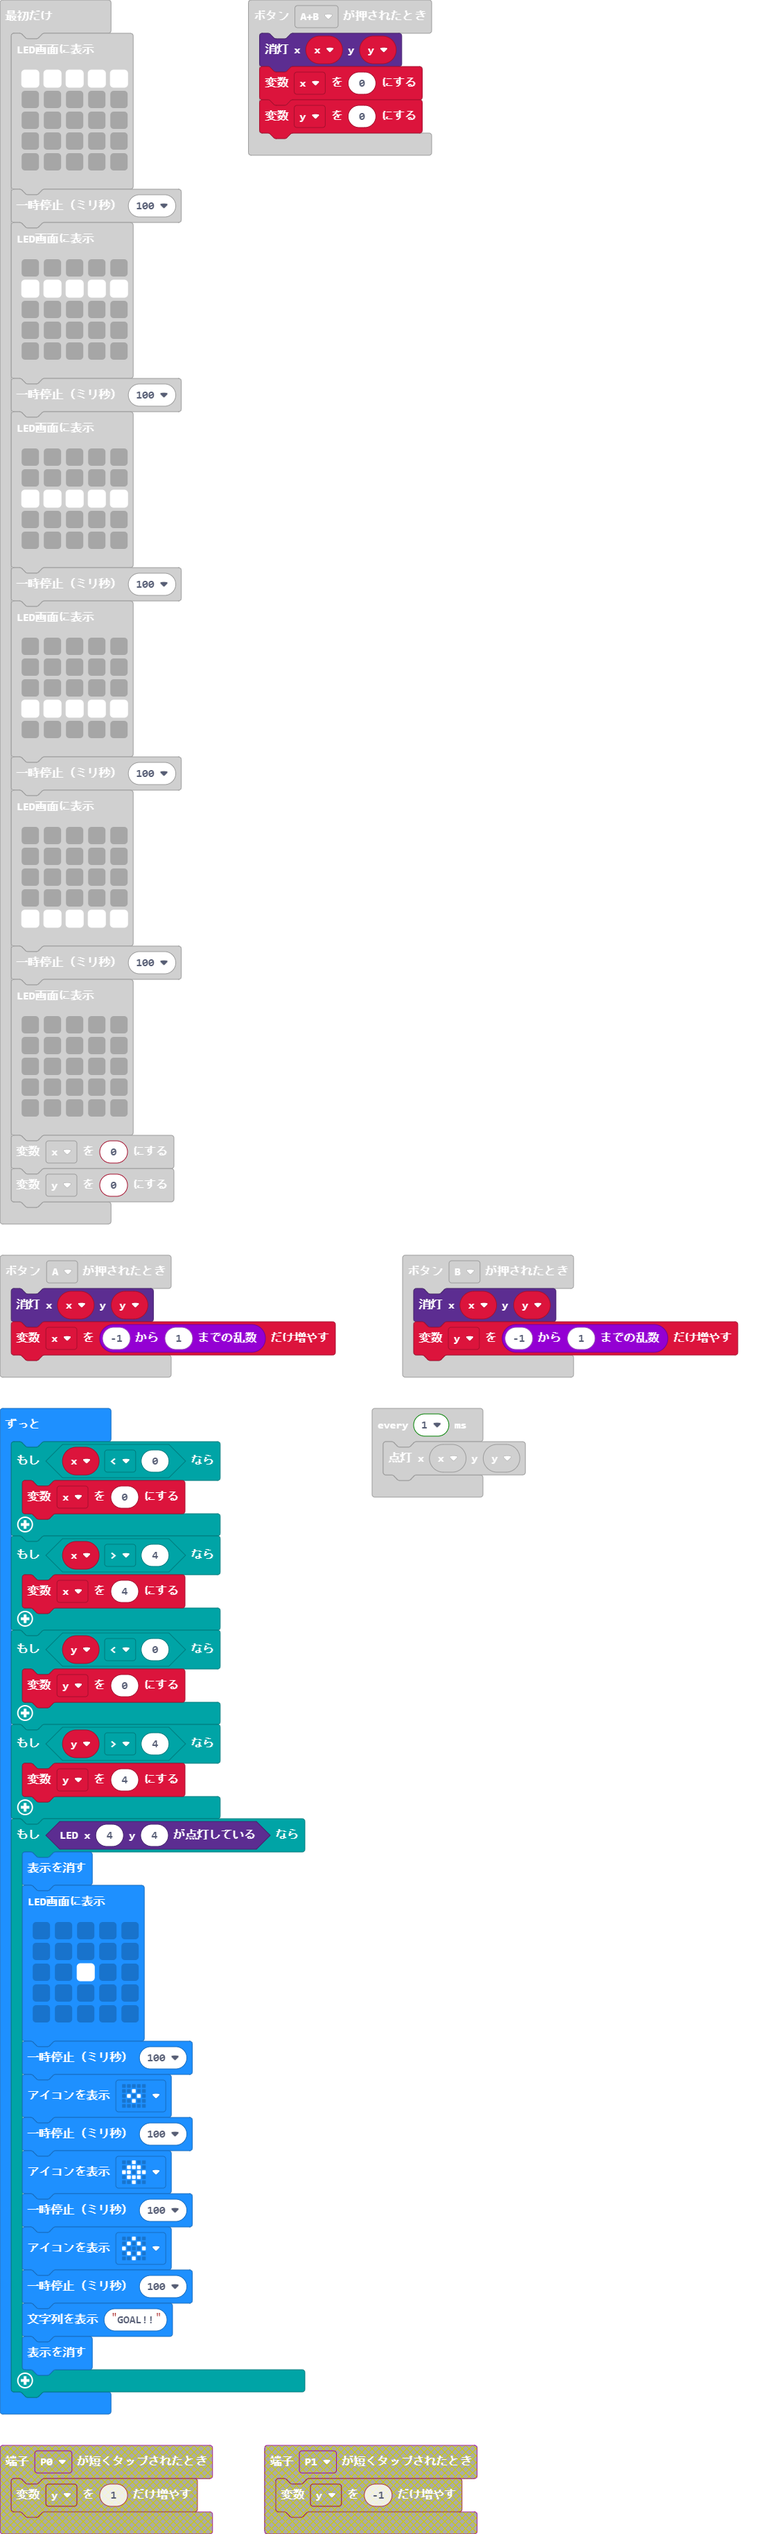
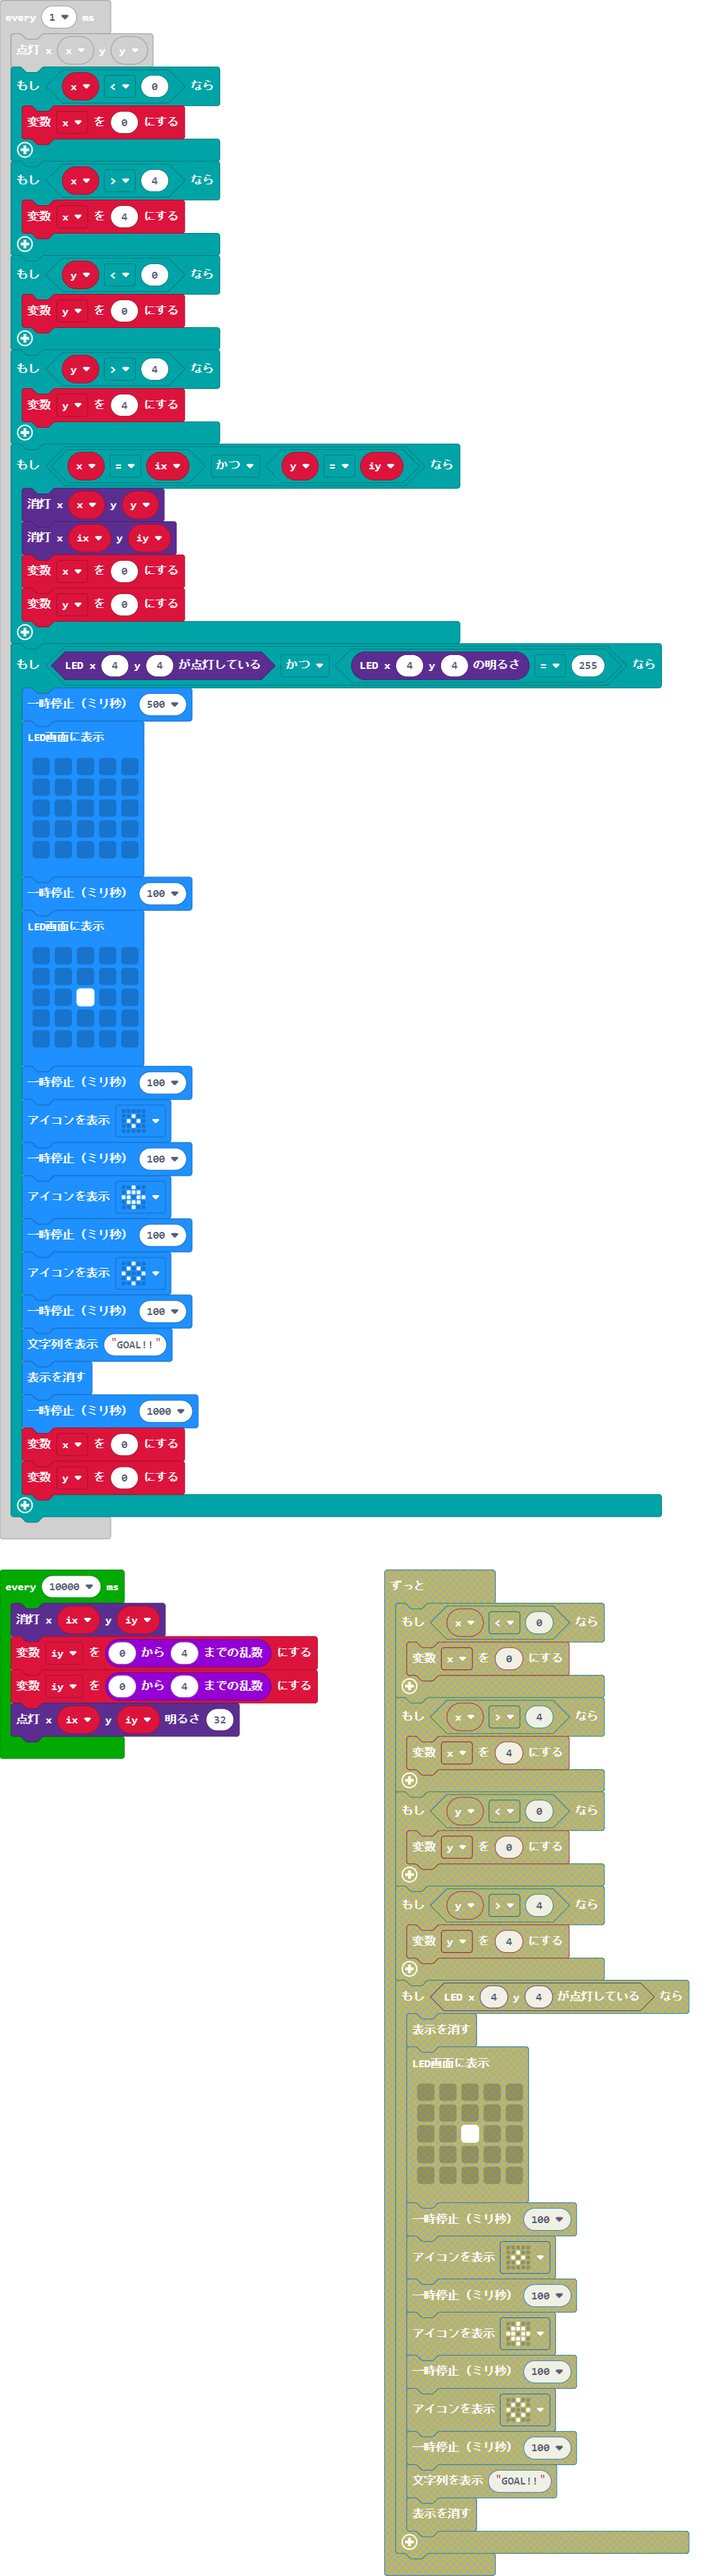
更新 main.blocks, main.ts

diff --git a/main.ts b/main.ts
@@ -11,6 +11,8 @@ input.onButtonPressed(Button.B, function () {
     led.unplot(x, y)
     y += randint(-1, 1)
 })
+let iy = 0
+let ix = 0
 let y = 0
 let x = 0
 basic.showLeds(`
@@ -62,10 +64,14 @@ basic.showLeds(`
     `)
 x = 0
 y = 0
+loops.everyInterval(10000, function () {
+    led.unplot(ix, iy)
+    iy = randint(0, 4)
+    iy = randint(0, 4)
+    led.plotBrightness(ix, iy, 32)
+})
 loops.everyInterval(1, function () {
     led.plot(x, y)
-})
-basic.forever(function () {
     if (x < 0) {
         x = 0
     }
@@ -78,8 +84,22 @@ basic.forever(function () {
     if (y > 4) {
         y = 4
     }
-    if (led.point(4, 4)) {
-        basic.clearScreen()
+    if (x == ix && y == iy) {
+        led.unplot(x, y)
+        led.unplot(ix, iy)
+        x = 0
+        y = 0
+    }
+    if (led.point(4, 4) && led.pointBrightness(4, 4) == 255) {
+        basic.pause(500)
+        basic.showLeds(`
+            . . . . .
+            . . . . .
+            . . . . .
+            . . . . .
+            . . . . .
+            `)
+        basic.pause(100)
         basic.showLeds(`
             . . . . .
             . . . . .
@@ -96,5 +116,8 @@ basic.forever(function () {
         basic.pause(100)
         basic.showString("GOAL!!")
         basic.clearScreen()
+        basic.pause(1000)
+        x = 0
+        y = 0
     }
 })
